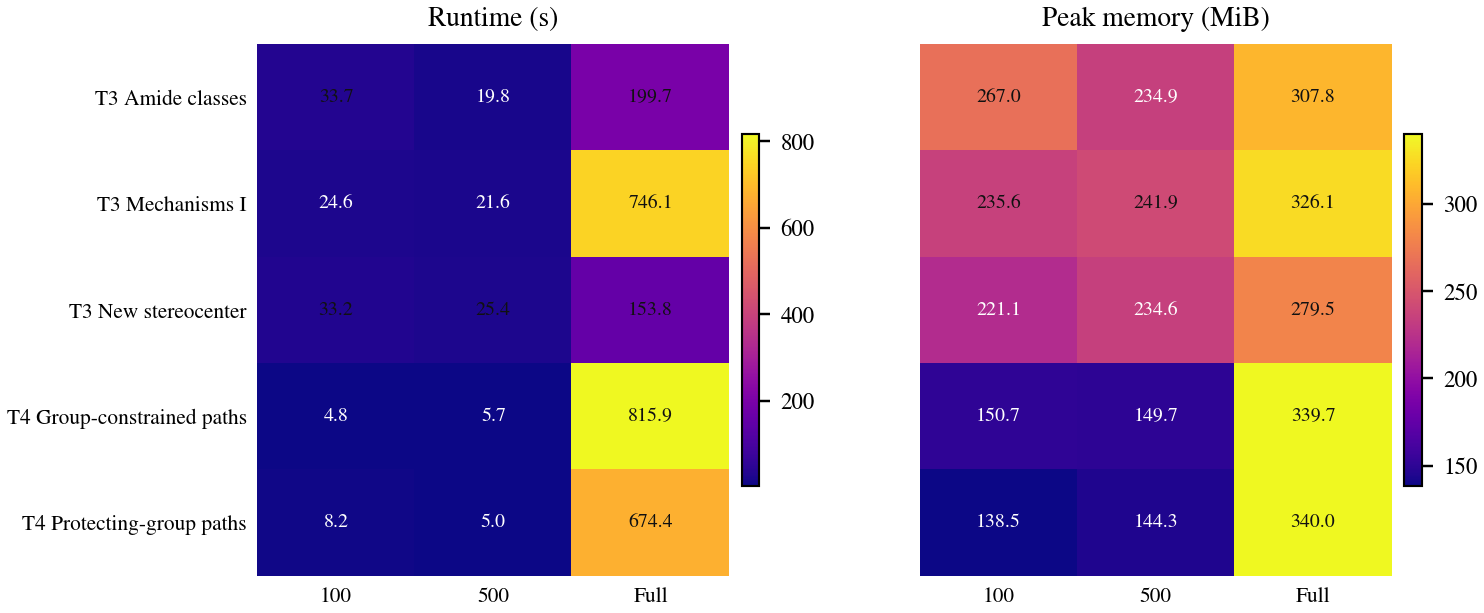
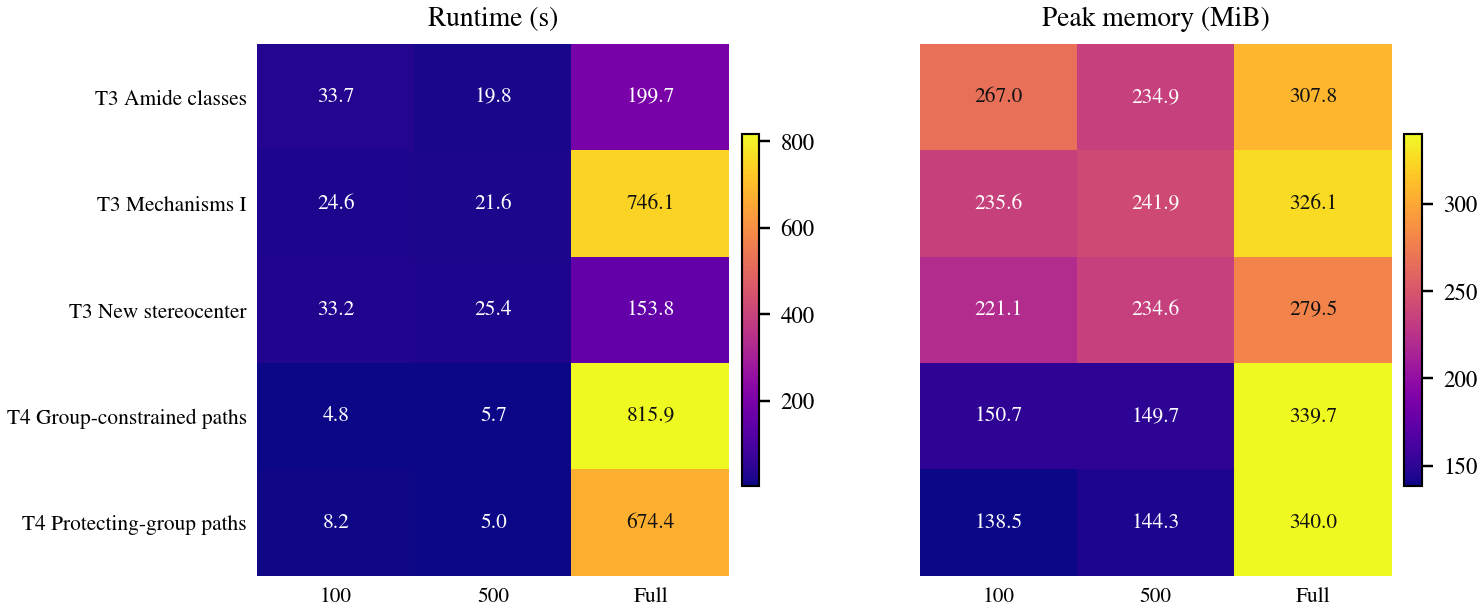
Use contrast-aware labels in executor heatmaps

diff --git a/paper_plots/scripts/plot_control_appendix.py b/paper_plots/scripts/plot_control_appendix.py
@@ -390,14 +390,16 @@ def executor_heatmaps(rows: list[dict[str, str]]) -> plt.Figure:
         image = axis.imshow(array, cmap=HEATMAP_CMAP, aspect="auto")
         for i in range(array.shape[0]):
             for j in range(array.shape[1]):
+                red, green, blue, _ = image.cmap(image.norm(array[i, j]))
+                luminance = 0.2126 * red + 0.7152 * green + 0.0722 * blue
                 axis.text(
                     j,
                     i,
                     f"{array[i, j]:.1f}",
                     ha="center",
                     va="center",
-                    fontsize=6.5,
-                    color="white" if array[i, j] < np.nanmedian(array) else "#111111",
+                    fontsize=7.0,
+                    color="white" if luminance < 0.48 else "#111111",
                 )
         axis.set_xticks(range(3), CONTEXT_LABELS)
         axis.set_yticks(
